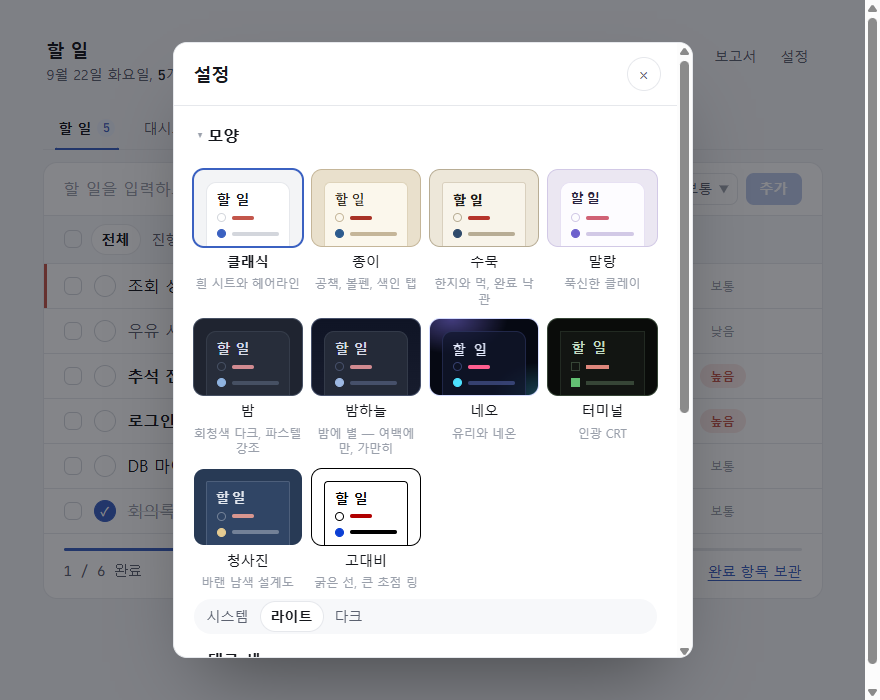
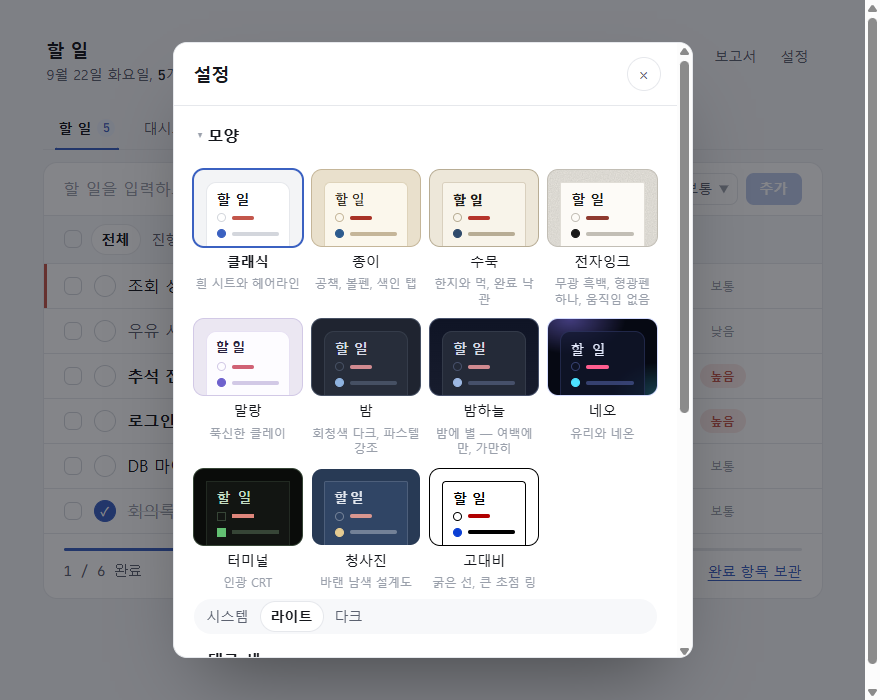
Add 전자잉크, an e-reader skin taken from the skill's style catalogue
Picked E-Ink / Paper out of the 88 styles as the one register the other ten
don't cover. 종이 is a notebook you write in — cream, ruled, blue pen. This is
a device you read on: matte near-white with grain, emphasis carried by ink
rather than colour, and selection drawn as a highlighter swipe. Priority is
shown as ink density on a three-step grey ramp that passes the ordinal check
against the paper surface.

Tags keep their colour. A desaturated set was tried and failed the validator
on both the chroma floor and colour-vision separation, and telling tags apart
is the whole job of that colour.

It is also the only skin that does not move: transitions and animations are
off inside the app, which is what an e-ink panel actually does. Switching
skins still cross-fades, since that runs outside .app.

diff --git a/src/skins.css b/src/skins.css
@@ -277,6 +277,96 @@
 }
 
 /* ======================================================================
+   전자잉크 — 전자책 단말의 화면. ui-ux-pro-max 의 "E-Ink / Paper" 스타일에서 가져왔다:
+   무광 종이, 먹 하나, 형광펜 하나, 그리고 움직임 없음.
+   종이 스킨은 "쓰는 공책"(크림색·볼펜·괘선), 이건 "읽는 단말"(거의 흰 무광·흑백·형광펜)이다.
+   ====================================================================== */
+:is(:root, .skin-card-canvas)[data-skin="eink"] {
+  --canvas: #e8e5de;
+  --sheet: #fdfbf7;
+  --sheet-2: #f3f0e9;
+  --ink: #1a1a1a;
+  --ink-2: #4a4a4a;
+  --ink-3: #8a8782;
+  --line: #e0ddd6;
+  --line-2: #c2beb5;
+  /* 강조는 색이 아니라 먹이다 — 진행률·완료 표시·초점이 전부 검정 */
+  --accent: #1a1a1a;
+  --accent-ink: #fdfbf7;
+  /* 고른 것·켜진 것은 형광펜을 그은 자리 */
+  --accent-soft: #f4e7a6;
+  /* 지난 마감만 붉은 펜 — 단말에서 손으로 그은 표시 정도의 채도 */
+  --high: #8f3a2f;
+  --high-soft: #f1e3df;
+  /* 우선순위는 색이 아니라 먹 농도. 검증기 ordinal 통과 (#fdfbf7 위) */
+  --chart-1: #1a1a1a;
+  --chart-2: #6b6b6b;
+  --chart-3: #b4b4b4;
+  --toast-bg: #1a1a1a;
+  --toast-fg: #fdfbf7;
+  /* 태그만은 색을 남긴다 — 서로 구분되는 게 태그의 일이고,
+     채도를 낮춘 세트는 검증기의 chroma floor·CVD 에서 떨어졌다 */
+  --tag-0: #2a78d6;
+  --tag-1: #eb6834;
+  --tag-2: #1baf7a;
+  --tag-3: #c2185b;
+  --radius: 2px;
+  color-scheme: light;
+}
+
+/* 종이 결 */
+[data-skin="eink"] body,
+[data-skin="eink"] .sheet,
+[data-skin="eink"] .detail,
+.skin-card-canvas[data-skin="eink"] {
+  background-image: var(--grain);
+  background-blend-mode: multiply;
+}
+
+/* 단말에는 그림자가 없다 — 면은 선으로만 나뉜다 */
+[data-skin="eink"] .sheet,
+[data-skin="eink"] .detail {
+  border-color: var(--line-2);
+  box-shadow: none;
+}
+
+/* 움직이지 않는다. 전자잉크 화면은 새로 그릴 뿐 전환이 없다.
+   (스킨을 바꿀 때의 화면 겹침은 ::view-transition 이라 여기 안 걸린다) */
+[data-skin="eink"] .app,
+[data-skin="eink"] .app *,
+[data-skin="eink"] .detail,
+[data-skin="eink"] .detail * {
+  transition: none;
+  animation: none;
+}
+
+/* 켜진 것은 형광펜을 그은 자리 — 상자나 링이 아니라 */
+[data-skin="eink"] .filter-btn.active,
+[data-skin="eink"] .colorby .filter-btn.active {
+  background: var(--accent-soft);
+  box-shadow: none;
+  color: var(--ink);
+}
+
+[data-skin="eink"] .tab-badge {
+  background: var(--accent-soft);
+  box-shadow: none;
+  color: var(--ink);
+}
+
+[data-skin="eink"] .stat:hover,
+[data-skin="eink"] .due-rows > a:hover,
+[data-skin="eink"] .todo-item:hover {
+  background: var(--accent-soft);
+}
+
+/* 초점은 먹으로 — 형광펜 노랑은 흰 종이 위에서 테두리로 쓰기엔 너무 옅다 */
+[data-skin="eink"] :focus-visible {
+  outline: 2px solid var(--ink);
+  outline-offset: 1px;
+}
+
+/* ======================================================================
    말랑 — 푹신한 클레이. 라벤더 바탕, 둥근 알약, 눌리는 버튼, 둥근 제목 서체
    ====================================================================== */
 :is(:root, .skin-card-canvas)[data-skin="clay"] {

diff --git a/src/hooks/useTheme.js b/src/hooks/useTheme.js
@@ -34,6 +34,7 @@ export const SKINS = [
     ['classic', '클래식', '흰 시트와 헤어라인'],
     ['paper', '종이', '공책, 볼펜, 색인 탭'],
     ['sumuk', '수묵', '한지와 먹, 완료 낙관'],
+    ['eink', '전자잉크', '무광 흑백, 형광펜 하나, 움직임 없음'],
     ['clay', '말랑', '푹신한 클레이'],
     ['night', '밤', '회청색 다크, 파스텔 강조'],
     ['nightsky', '밤하늘', '밤에 별 — 여백에만, 가만히'],

diff --git a/README.md b/README.md
@@ -60,7 +60,7 @@
 
 ![기간 보고서](docs/report.png)
 - 라이트 / 다크 / 시스템 테마 — 설정에서 선택
-- 스킨 열 가지 — 설정의 미리보기 카드에서 선택. 스킨마다 서체·재질·모양이 다릅니다
+- 스킨 열한 가지 — 설정의 미리보기 카드에서 선택. 스킨마다 서체·재질·모양이 다릅니다
 
 ![스킨 고르기](docs/skin-gallery.png)
 
@@ -69,6 +69,7 @@
 | 클래식 | 흰 시트, 헤어라인 |
 | 종이 | 공책 — 종이 결, 파란 괘선과 붉은 여백선, 색인 탭, 세리프 제목(Gowun Batang), 끝낸 일은 붉은 펜 |
 | 수묵 | 한지와 먹 — 쪽빛 강조, 붓으로 그은 탭 밑줄, 족자 틀, 끝낸 일에 주홍 낙관 完 (Hahmlet) |
+| 전자잉크 | 전자책 단말 — 무광 종이 결, 강조는 색이 아니라 먹, 고른 것은 형광펜을 그은 자리, 우선순위는 먹 농도. **움직임이 없습니다**(전환·애니메이션 모두 꺼짐) |
 | 말랑 | 클레이 — 라벤더 바탕, 줄마다 방석, 누르면 내려앉는 버튼, 알약 탭 (Jua + Gowun Dodum) |
 | 밤 | 개발자들이 제일 오래 쓰는 종류의 다크 — 남색 기운 회청색 바탕, 채도 뺀 파스텔 강조, 글로우 없음 (Nord·Catppuccin 계열) |
 | 밤하늘 | 밤에 별을 얹은 것 — 별은 시트 밖 여백에만, 움직이지 않음. 위가 깊고 아래가 옅은 하늘 |
@@ -81,6 +82,7 @@
 ![밤하늘](docs/skin-nightsky.png)
 ![종이](docs/skin-paper.png)
 ![수묵](docs/skin-sumuk.png)
+![전자잉크](docs/skin-eink.png)
 ![말랑](docs/skin-clay.png)
 ![터미널](docs/skin-terminal.png)
 ![청사진](docs/skin-blueprint.png)
@@ -137,7 +139,7 @@ src/
   index.css                 클래식 색 토큰 — light-dark() 로 라이트/다크를 한 줄에 + 글자·여백 눈금, 리셋, 포커스
   App.css                   시트·목록·대시보드·캘린더 스타일 (클래식)
   skin-neo.css              네오 스킨 — 배경·유리·글로우까지 바꿔서 분량이 커 따로 둠
-  skins.css                 종이·수묵·말랑·밤·밤하늘·터미널·청사진·고대비 — 토큰 + 스킨마다의 서체·재질·모양
+  skins.css                 종이·수묵·전자잉크·말랑·밤·밤하늘·터미널·청사진·고대비 — 토큰 + 스킨마다의 서체·재질·모양
   hooks/
     usePersistedReducer.js  useReducer + localStorage (읽을 때 sanitize, 다른 탭 변경은 storage 이벤트로 반영)
     useNow.js               1분마다 갱신되는 현재 시각 — 자정 넘겨도 "오늘"이 맞게
